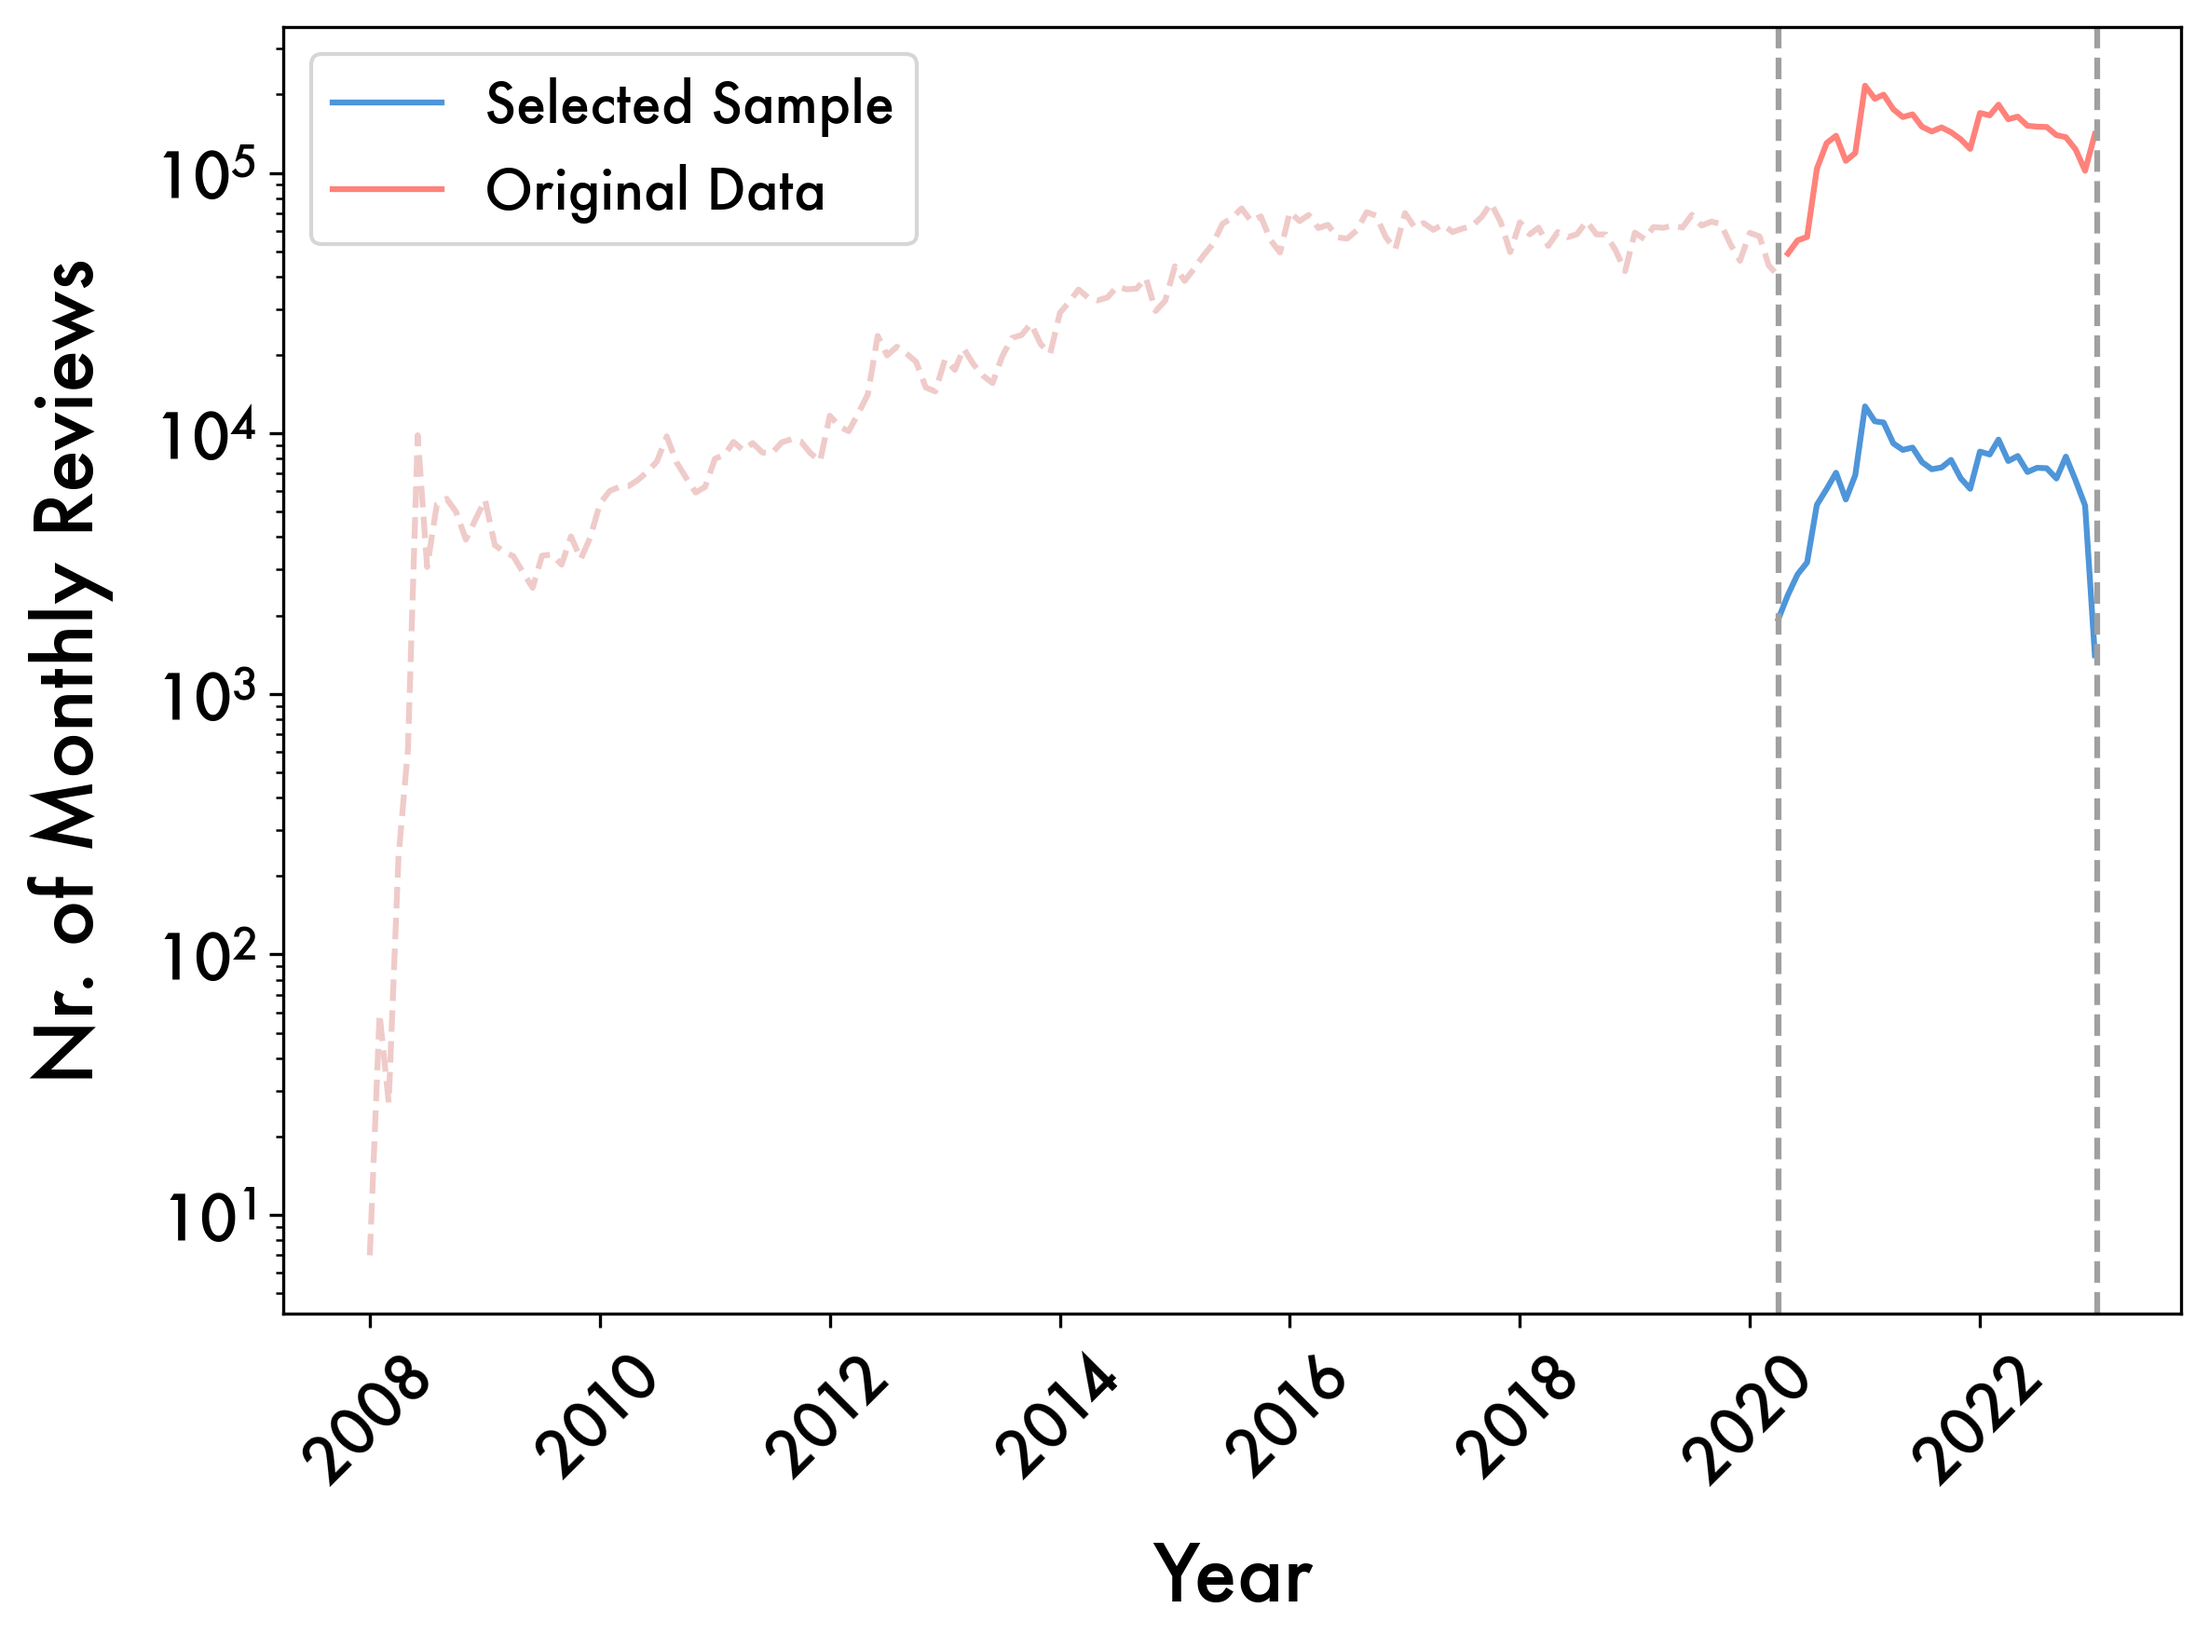
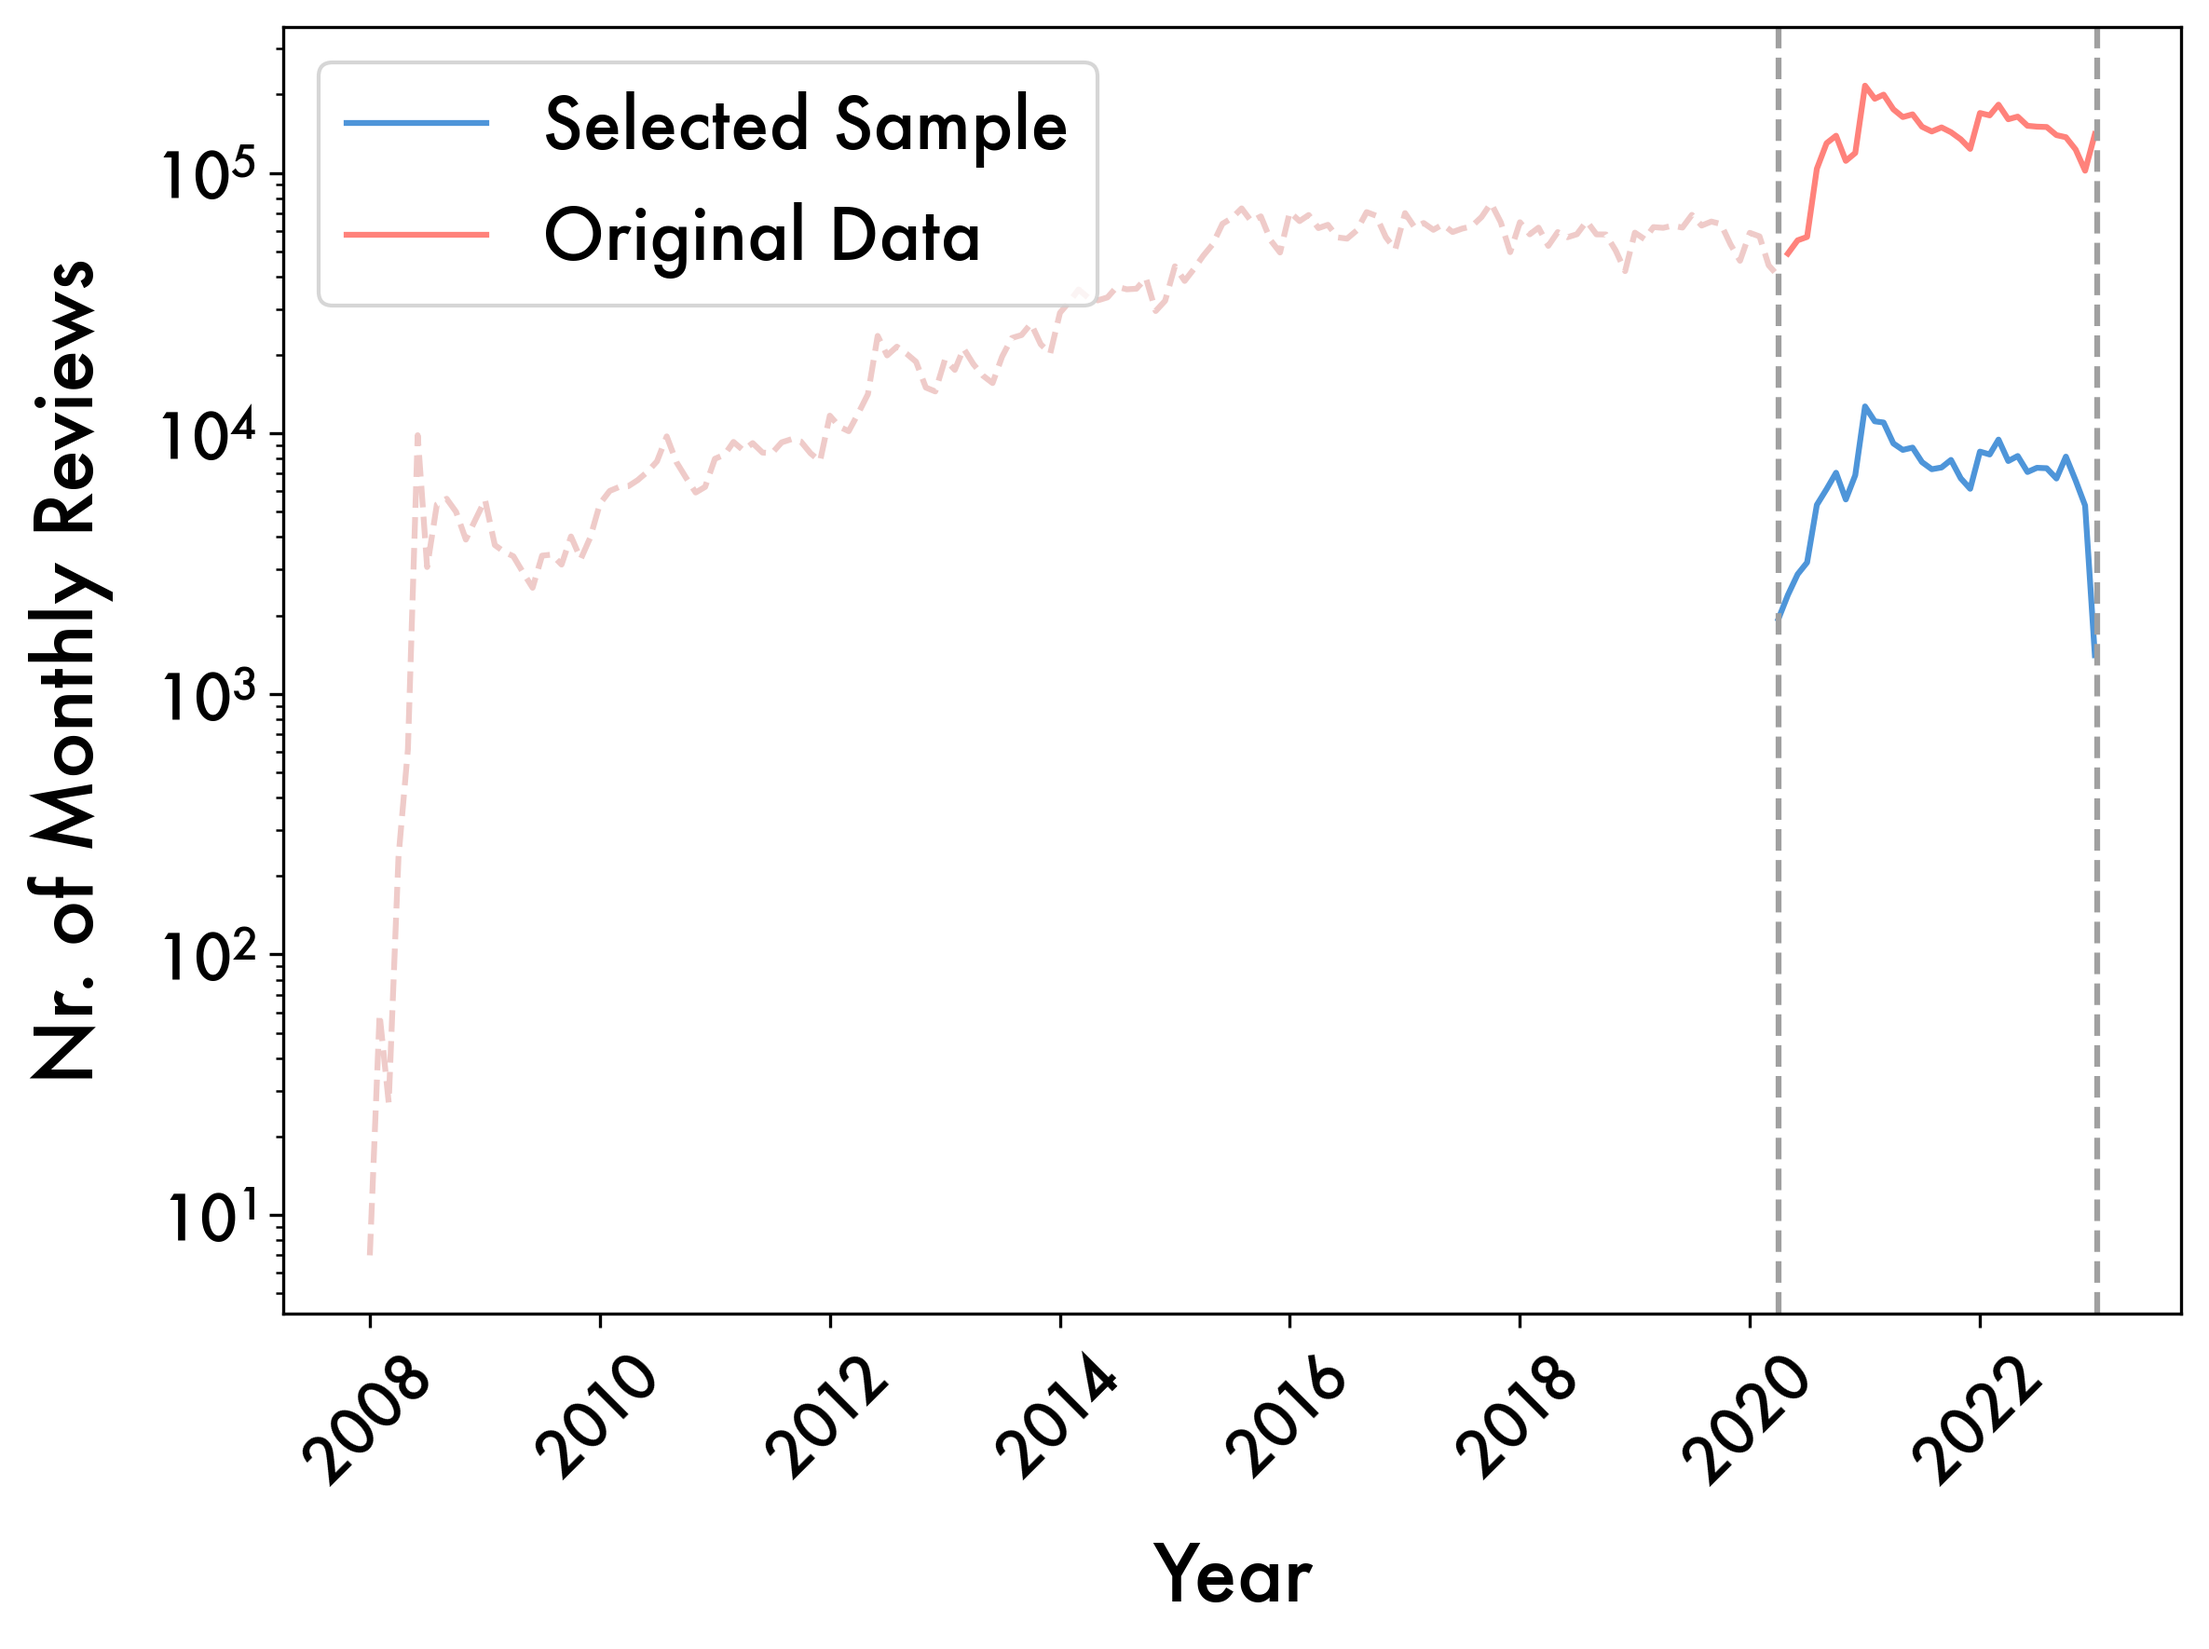
Feat: Save the result

Changed region(s): [[0.1248, 0.0311, 0.4994, 0.1864], [0.4682, 0.1554, 0.4994, 0.1864]]

diff --git a/bullshit_jobs/plotting/data_section.py b/bullshit_jobs/plotting/data_section.py
@@ -93,7 +93,7 @@ def timeline_plot():
     plt.yscale("log")
 
     # Title and legend
-    plt.legend(loc="upper left", fontsize=14)
+    plt.legend(loc="upper left", fontsize=18)
 
     # Layout and save
     plt.tight_layout()
@@ -101,11 +101,230 @@ def timeline_plot():
     plt.show()
 
 
+def plot_random_samples():
+    # Set a seed of 42 for reproducibility
+    np.random.seed(42)
 
+    # Read in the master data
+    df = pd.read_csv("data/master_data.csv")
+
+    # Get a random sample of 10 firms
+    random_reviews = np.random.choice(df["review_id"], size=5, replace=False)
+
+    # Get the reviews for the random firms
+    random_df = df[df["review_id"].isin(random_reviews)]
+
+    # Columns
+    cols = ["firm", "rating", "cons", "date", "bs_score_binary_dict", "bs_score_llm"]
+    random_df = random_df[cols]
+
+    print(random_df)
+
+    # Write the random sample to a latex file
+    with open("tables/random_sample.tex", "w") as f:
+        f.write(random_df.to_latex(index=False, escape=False, float_format="%.1f"))
+
+
+def count_of_included_companies():
+    # Read in the master data
+    df = pd.read_csv("data/master_data.csv")
+
+    # Basic stats
+    num_firms = df["firm"].nunique()
+    num_sectors = df["sector"].nunique()
+    print(f"The number of unique firms is: {num_firms}")
+    print(f"The number of unique sectors is: {num_sectors}")
+
+    # Count of observations per firm and sector
+    firm_counts = df.groupby(["sector", "firm"]).size().reset_index(name="count")
+
+    # Desired sector order and color mapping
+    sector_order = ["technology", "manufacturing", "finance", "telecom"]
+    color_map = {
+        "technology": "#4E95D9",    # Blue
+        "manufacturing": "#0BE9A5", # Green
+        "finance": "#efcd0b",       # Yellow
+        "telecom": "#FF827B"        # Red
+    }
+
+    # Filter and order
+    firm_counts = firm_counts[firm_counts["sector"].isin(sector_order)]
+    firm_counts["sector"] = pd.Categorical(firm_counts["sector"], categories=sector_order, ordered=True)
+    firm_counts = firm_counts.sort_values(["sector", "count"], ascending=[True, False])
+
+    # Set Futura font
+    plt.rcParams["font.family"] = "Futura"
+
+    # --- Custom grouped bar plot using matplotlib ---
+    plt.figure(figsize=(8, 6))
+    sectors = firm_counts["sector"].unique()
+
+    # Determine positions
+    group_spacing = 2
+    bar_width = 0.35
+    positions = []
+    xtick_labels = []
+    colors = []
+    counts = []
+    firm_labels = []
+    current_x = 0
+    bar_positions = []
+
+    for sector in sector_order:
+        sector_data = firm_counts[firm_counts["sector"] == sector]
+        n = len(sector_data)
+        sector_positions = [current_x + i * bar_width for i in range(n)]
+
+        # Store center of group for tick
+        center_pos = np.mean(sector_positions)
+        positions.append(center_pos)
+        xtick_labels.append(sector.capitalize())
+
+        # Store firm-specific data
+        bar_positions.extend(sector_positions)
+        counts.extend(sector_data["count"])
+        colors.extend([color_map[sector]] * n)
+        firm_labels.extend(sector_data["firm"])
+
+        current_x = sector_positions[-1] + group_spacing
+
+    # Plot bars with black border
+    # bars = plt.bar(bar_positions, counts, width=bar_width, color=colors, edgecolor="black")
+    # Plot bars with colored borders and semi-transparent fill
+    bars = []
+    for x, y, color in zip(bar_positions, counts, colors):
+        bar = plt.bar(
+            x,
+            y,
+            width=bar_width,
+            color="#e0e0e0",           # fill color with alpha
+            edgecolor="#a0a0a0",       # border color (fully opaque)
+            linewidth=1,
+            alpha=0.6              # semi-transparent fill
+        )
+        bars.append(bar[0])  # bar() returns a container
+
+
+    # Label top and bottom firm per sector
+    for sector in sector_order:
+        sector_data = firm_counts[firm_counts["sector"] == sector]
+        if sector_data.empty:
+            continue
+        # top_firm = sector_data.iloc[0]
+        # bottom_firm = sector_data.iloc[-1]
+
+        # label_offset = 3  # raise labels a bit more above the bar
+        # line_extension = 1.5  # height of the vertical line
+
+        # for firm_row in [top_firm, bottom_firm]:
+        #     idx = firm_counts.index.get_loc(firm_row.name)
+        #     bar = bars[idx]
+        #     height = bar.get_height()
+
+        #     # Draw vertical line from top of bar to just below label
+        #     plt.plot(
+        #         [bar.get_x() + bar.get_width() / 2] * 2,
+        #         [height, height + label_offset - 0.5],  # line height stops below text
+        #         color="black",
+        #         linestyle="dotted",
+        #         linewidth=1,
+        #         zorder=1000
+        #     )
+
+        #     # Add label
+        #     plt.text(
+        #         bar.get_x(),                        # Left align with bar
+        #         height + label_offset,             # Slightly higher
+        #         firm_row["firm"],
+        #         ha="left",
+        #         va="bottom",
+        #         fontsize=12,
+        #         rotation=45,
+        #         fontweight="bold"
+        #     )
+
+
+
+    # Axis and layout
+    plt.xticks(positions, xtick_labels, fontsize=16)
+    plt.yticks(fontsize=16)
+    plt.xlabel("Sector", fontsize=20, labelpad=10)
+    plt.ylabel("Number of Reviews", fontsize=20, labelpad=10)
+    # Adding padding
+    plt.margins(x=0.1, y=0.1)  # 5% padding on x-axis, 10% on y-axis
+
+    plt.tight_layout()
+    plt.savefig("figures/grouped_barplot_cleaned.png", dpi=300)
+    plt.show()
+
+
+def summary_stats():
+    # Read in the master data
+    df_master = pd.read_csv("data/master_data.csv")
+
+    # Select the variables of interest
+    cols = ["firm", "sector"]
+
+    # Create a new DataFrame with the selected columns
+    df = df_master[cols]
+
+    # Give summary statistics on the unique, mode, and anti-mode values
+    # Get the unique values
+    unique_values = df.nunique()
+    # Get the mode values
+    mode_values = df.mode().iloc[0]
+    # Get the anti-mode values
+    anti_mode_values = df.apply(lambda x: x.value_counts().idxmin())
+    # Combine the results into a new DataFrame
+    summary_df = pd.DataFrame({
+        "Unique": unique_values,
+        "Mode": mode_values,
+        "Anti-Mode": anti_mode_values
+    })
+    # Write the summary to a latex file
+    print(summary_df)
+
+    # Give the mean, std. dev., min, and max values of the rating
+    # Get the mean values
+    df_rating = df_master[["rating"]]
+    mean_values = df_rating.mean()
+    # Get the std. dev. values
+    std_values = df_rating.std()
+    # Get the min values
+    min_values = df_rating.min()
+    # Get the max values
+    max_values = df_rating.max()
+    # Combine the results into a new DataFrame
+    summary_rating_df = pd.DataFrame({
+        "Mean": mean_values,
+        "Std. Dev.": std_values,
+        "Min": min_values,
+        "Max": max_values
+    })
+    print(summary_rating_df)
+
+def show_min_max_dates():
+    # Read in the master data
+    df = pd.read_csv("data/master_data.csv")
+
+    # Convert the date columns to datetime
+    df["date"] = pd.to_datetime(df["date"], errors="coerce")
+
+    # Get the min and max dates
+    min_date = df["date"].min()
+    max_date = df["date"].max()
+
+    # Print the min and max dates
+    print(f"The min date is: {min_date}")
+    print(f"The max date is: {max_date}")
 
 if __name__ == "__main__":
     # Load the data
     # df = pd.read_csv("data/master_data.csv")
 
     # simple_stats(df)
-    timeline_plot()
+    # timeline_plot()
+    # plot_random_samples()
+    # count_of_included_companies()
+    # summary_stats()
+    show_min_max_dates()

diff --git a/tables/random_sample.tex b/tables/random_sample.tex
@@ -1,0 +1,11 @@
+\begin{tabular}{lrllrr}
+\toprule
+firm & rating & cons & date & bs_score_binary_dict & bs_score_llm \\
+\midrule
+IBM & 4.0 & Growth saturates after few years. & 2021-11-11 & 0 & 0.2 \\
+General-Motors-(GM) & 1.0 & GM lacks any standards for hiring software engineers and often has no technical interview of any kind. This means you can be on a team with software engineers who can barely code, or surprisingly even have poor skills with a computer in general. & 2022-07-14 & 1 & 0.5 \\
+Verizon & 3.0 & Harsh environment working outside in all weather & 2022-08-14 & 0 & 0.0 \\
+Meta & 5.0 & There is Information overload at times, but having great leaders to help you focus on what's important helps. & 2022-11-22 & 1 & 0.4 \\
+T-Mobile & 4.0 & Service, Products, and Sales metrics were horrible & 2021-05-13 & 0 & 0.1 \\
+\bottomrule
+\end{tabular}

diff --git a/bullshit_jobs/load_data/_load_data.py b/bullshit_jobs/load_data/_load_data.py
@@ -286,12 +286,21 @@ def add_firm_id_to_master_data() -> pd.DataFrame:
 
     return df
 
+def change_master_card_to_finance():
+    df = _quick_load("master_data.pkl")
+    # Change the sector of "Mastercard" to "finance"
+    df.loc[df["firm"] == "Mastercard", "sector"] = "finance"
+    # Save the data
+    _save_data(df, "master_data")
+    return df
+
 
 if __name__ == "__main__":
     # Load the data
     # df = _load_new_and_save()
     # print(df)
-    add_firm_id_to_master_data()
+    # add_firm_id_to_master_data()
+    change_master_card_to_finance()
 
 
 
